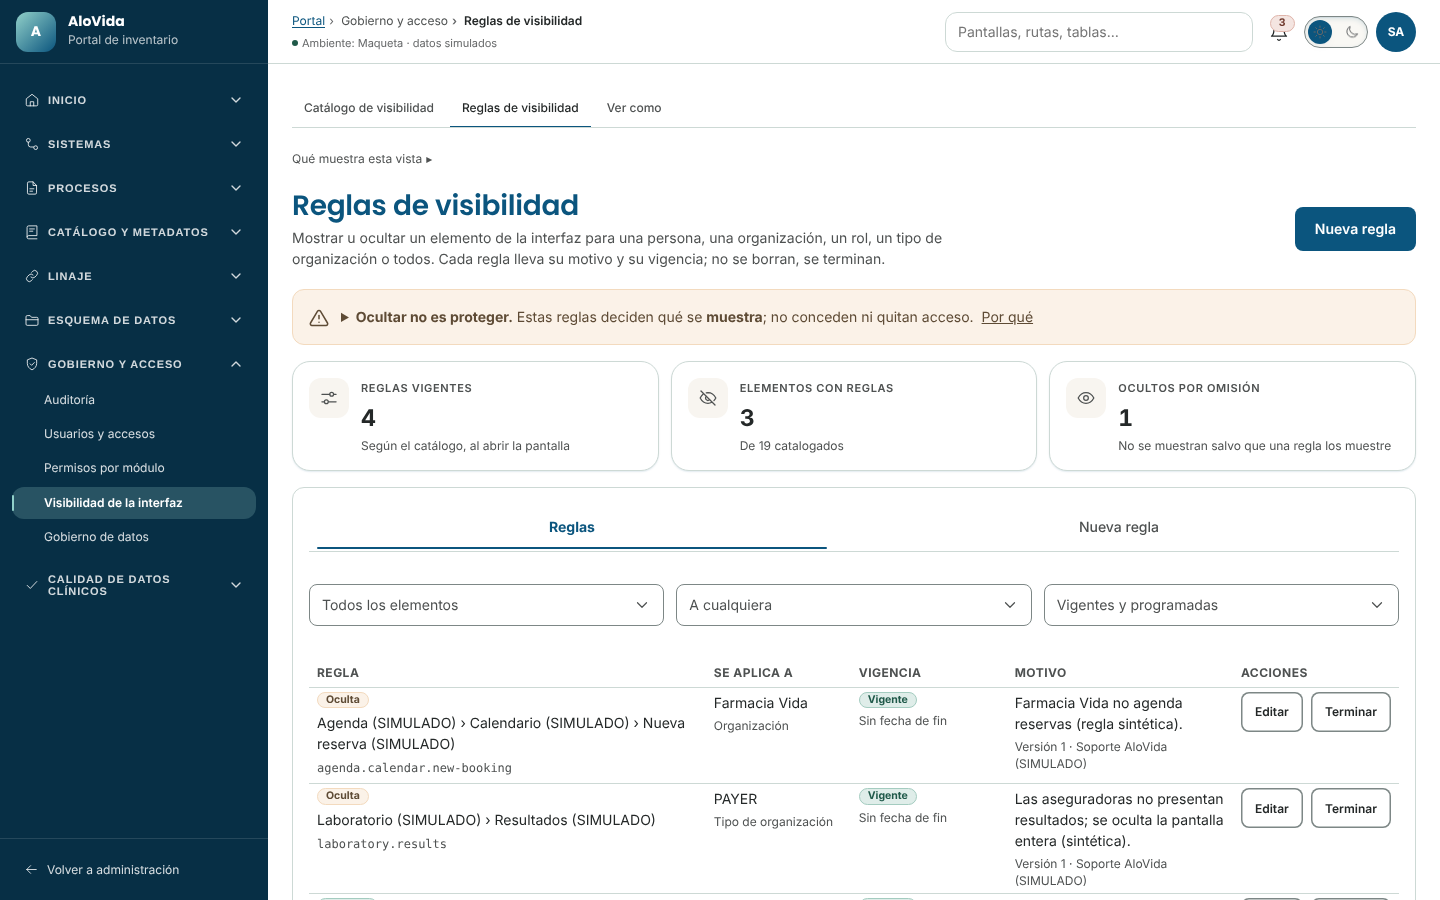
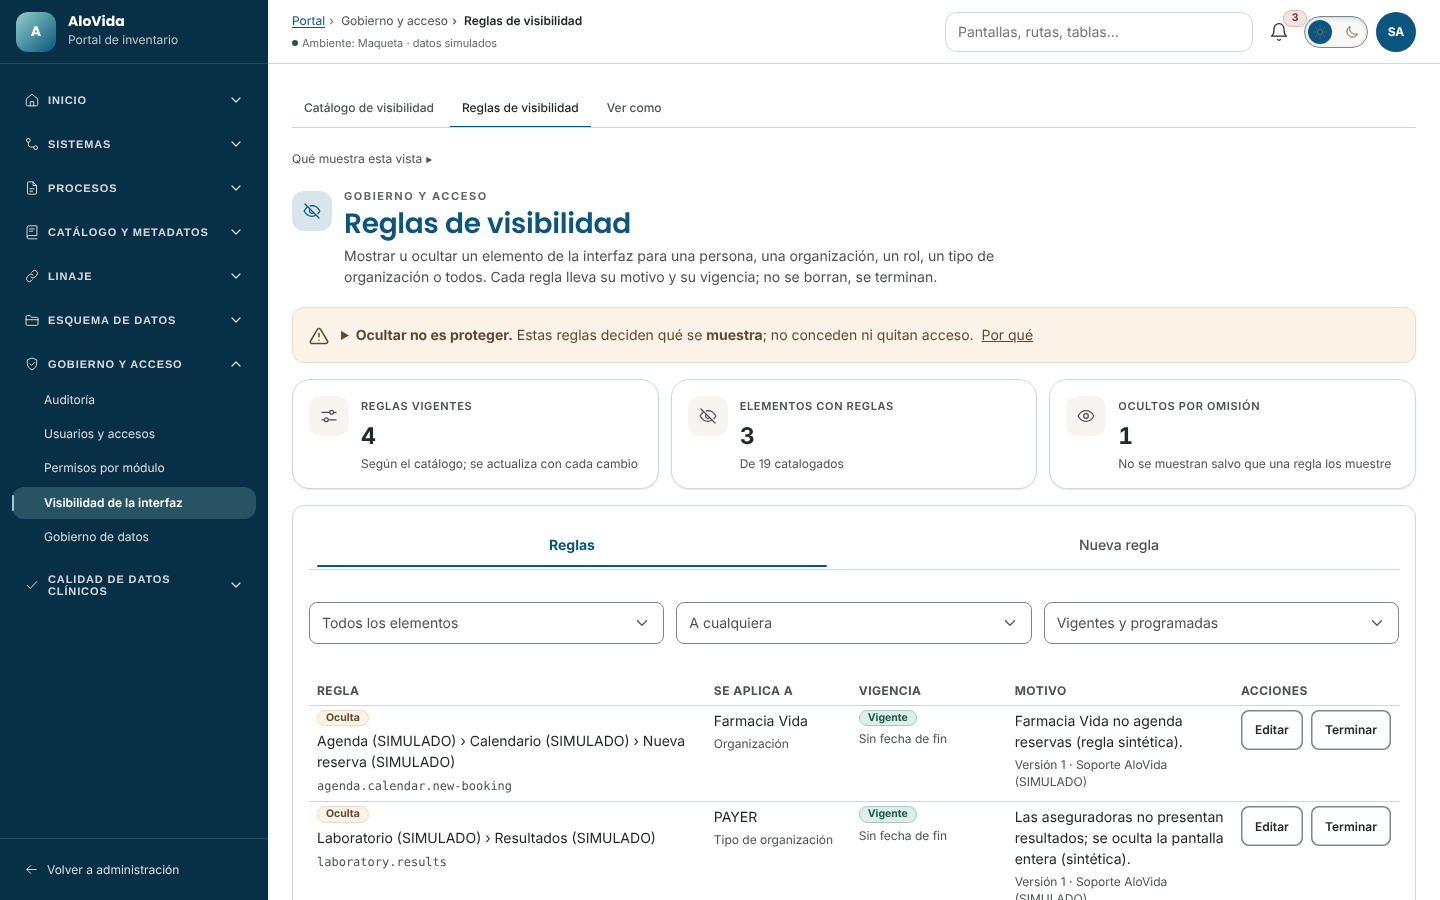
fix(portal): reglas de visibilidad — una sola «Nueva regla», filtros sin botón suelto y KPIs que se actualizan (revisión visual 1)
- Se quita el botón de cabecera: «Nueva regla» queda sólo como pestaña.
- La barra de filtros no se pliega (sin buscador quedaba un botón «Filtros» suelto a 390).
- Las cifras releen el índice del catálogo tras crear, editar o terminar una regla, sin
  vaciar lo que se ve (índice «atrasado» S7 mientras llega). Spec nueva que lo prueba.
- KPIs en dos columnas (la primera a lo ancho) hasta 1024 px.

Claude-Session: https://claude.ai/code/session_015srVoda962hL6gd5RrH9vw

diff --git a/src/app/features/admin/portal/visibility/rules/ui-rules-page.ts b/src/app/features/admin/portal/visibility/rules/ui-rules-page.ts
@@ -3,7 +3,6 @@ import { ActivatedRoute, Router } from '@angular/router';
 
 import type { UiVisibilityRule } from '../../../../../core/data-access/ui-visibility/ui-visibility.types';
 import { UiVisibilityService } from '../../../../../core/visibility/ui-visibility.service';
-import { AppButton } from '../../../../../shared/components/atoms/button/button';
 import { Card } from '../../../../../shared/components/molecules/card/card';
 import { MetricCard } from '../../../../../shared/components/molecules/metric-card/metric-card';
 import { Tab } from '../../../../../shared/components/molecules/tabs/tab/tab';
@@ -26,23 +25,17 @@ const FILTER_KEYS = ['element', 'subjectType', 'state'] as const;
  */
 @Component({
   selector: 'app-portal-ui-rules-page',
-  imports: [AppButton, Card, MetricCard, Tab, Tabs, PageHeader, VisibilityNotice, RulesPanel, RuleFormPanel],
+  imports: [Card, MetricCard, Tab, Tabs, PageHeader, VisibilityNotice, RulesPanel, RuleFormPanel],
   template: `
     <!-- Una sola cabecera sobre el lienzo; las migas viven en la barra superior del portal. -->
     <app-page-header
       title="Reglas de visibilidad"
       subtitle="Mostrar u ocultar un elemento de la interfaz para una persona, una organización, un rol, un tipo de organización o todos. Cada regla lleva su motivo y su vigencia; no se borran, se terminan."
-    >
-      @if (tabIndex() === 0) {
-        <button app-button page-actions variant="primary" data-testid="ui-rules-new" (clicked)="selectTab(1)">
-          Nueva regla
-        </button>
-      }
-    </app-page-header>
+    />
     <div class="rules-page">
       <app-visibility-notice />
       <section class="rules-page__metrics" aria-label="Resumen de las reglas" data-testid="ui-rules-metrics">
-        <app-metric-card label="Reglas vigentes" icon="sliders" [value]="metric(totals().rules)" hint="Según el catálogo, al abrir la pantalla" />
+        <app-metric-card label="Reglas vigentes" icon="sliders" [value]="metric(totals().rules)" hint="Según el catálogo; se actualiza con cada cambio" />
         <app-metric-card
           label="Elementos con reglas"
           icon="eye-off"
@@ -59,7 +52,7 @@ const FILTER_KEYS = ['element', 'subjectType', 'state'] as const;
       <app-card class="rules-page__card" variant="outlined" padding="md" data-testid="portal-ui-rules">
         <app-tabs [selectedIndex]="tabIndex()" (selectedIndexChange)="selectTab($event)">
           <app-tab label="Reglas">
-            <app-visibility-rules-panel [values]="filters()" [notice]="notice()" />
+            <app-visibility-rules-panel [values]="filters()" [notice]="notice()" (changed)="index.refresh()" />
           </app-tab>
           <app-tab label="Nueva regla">
             @if (tabIndex() === 1) {
@@ -83,21 +76,21 @@ const FILTER_KEYS = ['element', 'subjectType', 'state'] as const;
       inline-size: 100%;
       margin-inline: auto;
     }
-    /* Teléfono y tableta: las cifras en un carril de una fila; desde escritorio, en rejilla. */
+    /* Tres cifras en dos columnas (la primera a lo ancho); desde escritorio, tres. */
     .rules-page__metrics {
       display: grid;
-      grid-auto-flow: column;
-      grid-auto-columns: minmax(15rem, 1fr);
+      grid-template-columns: repeat(2, minmax(0, 1fr));
       gap: var(--sp-3);
-      overflow-x: auto;
-      padding-block-end: var(--sp-1);
-      scrollbar-width: thin;
+    }
+    .rules-page__metrics > :first-child {
+      grid-column: 1 / -1;
     }
     @media (min-width: 1024px) {
       .rules-page__metrics {
-        grid-auto-flow: row;
         grid-template-columns: repeat(3, minmax(0, 1fr));
-        overflow-x: visible;
+      }
+      .rules-page__metrics > :first-child {
+        grid-column: auto;
       }
     }
     .rules-page__metrics app-metric-card {
@@ -153,6 +146,8 @@ export class UiRulesPage {
   protected created(rule: UiVisibilityRule): void {
     // La regla nueva puede tocar a quien la creó: su interfaz se pone al día sin recargar la página.
     this.visibility.refresh();
+    // Las cifras de la cabecera salen del índice del catálogo: se relee para que cuenten la regla nueva.
+    this.index.refresh();
     this.notice.set(
       `Se creó la regla: ${effectLabel(rule.effect).label.toLowerCase()} «${this.index.path(rule.elementKey)}» para ${rule.subjectLabel ?? 'todos'}.`,
     );

diff --git a/src/app/features/admin/portal/visibility/element-index.ts b/src/app/features/admin/portal/visibility/element-index.ts
@@ -4,7 +4,7 @@ import type { Subscription } from 'rxjs';
 import { UiVisibilityAdminClient } from '../../../../core/data-access/ui-visibility/ui-visibility-admin.client';
 import type { UiElement } from '../../../../core/data-access/ui-visibility/ui-visibility.types';
 import { errorToViewState } from '../../../../core/http/error-to-view-state';
-import { loading, ready } from '../../../../core/view-state/view-state';
+import { loading, ready, stale } from '../../../../core/view-state/view-state';
 import type { ViewState } from '../../../../core/view-state/view-state.types';
 import type { SelectOption } from '../../../../shared/components/atoms/select/select.types';
 import { pathText } from './visibility-labels';
@@ -61,9 +61,18 @@ export class UiElementIndex {
       .sort((a, b) => a.label.localeCompare(b.label));
   }
 
-  load(): void {
+  /**
+   * Vuelve a leer el catálogo sin vaciar lo que se ve: mientras llega, el índice queda «atrasado»
+   * (S7) con los datos anteriores, así las rutas legibles y las cifras no parpadean.
+   */
+  refresh(): void {
+    const s = this.state();
+    this.load(s.status === 'ready' || s.status === 'stale' ? stale(s.data, new Date()) : loading());
+  }
+
+  load(initial: ViewState<readonly UiElement[]> = loading()): void {
     this.pending?.unsubscribe();
-    this.state.set(loading());
+    this.state.set(initial);
     const all: UiElement[] = [];
     const next = (cursor: string | undefined, pages: number): void => {
       this.pending = this.client.listElements({ limit: PAGE, ...(cursor ? { cursor } : {}) }).subscribe({

diff --git a/src/app/features/admin/portal/visibility/rules/ui-rules-page.spec.ts b/src/app/features/admin/portal/visibility/rules/ui-rules-page.spec.ts
@@ -127,7 +127,12 @@ describe('UiRulesPage', () => {
       saving(): boolean;
     };
 
-  afterEach(() => http.verify());
+  afterEach(() => {
+    // Las cifras de la cabecera releen el índice del catálogo tras cada cambio; esa relectura no es
+    // lo que prueba cada caso, así que se responde aquí (los casos que la prueban la piden antes).
+    http.match((r) => r.url === ELEMENTS).forEach((r) => r.flush({ items: ELEMENT_LIST, nextCursor: null, total: 3 }));
+    http.verify();
+  });
 
   describe('lista', () => {
     it('muestra cada regla con su efecto, la ruta del elemento, el sujeto, la vigencia y el motivo', async () => {
@@ -191,6 +196,17 @@ describe('UiRulesPage', () => {
       req.flush(rule('r1', { validTo: '2026-10-31T12:00:00.000Z', version: 2 }));
       harness.detectChanges();
       expect(byTestId('ui-rules-done')!.textContent).toContain('Quedó en el historial');
+      flush([ENDED]);
+    });
+
+    it('al terminarla, las cifras de la cabecera vuelven a leer el catálogo', async () => {
+      await open();
+      flush();
+      all('ui-rule-end')[0]!.click();
+      await harness.fixture.whenStable();
+      http.expectOne(`${RULES}/r1/end`).flush(rule('r1', { validTo: '2026-10-31T12:00:00.000Z', version: 2 }));
+      harness.detectChanges();
+      expect(http.match((r) => r.url === ELEMENTS).length).toBeGreaterThan(0);
       flush([ENDED]);
     });
 

diff --git a/src/app/features/admin/portal/visibility/rules/rules-panel.html b/src/app/features/admin/portal/visibility/rules/rules-panel.html
@@ -10,7 +10,7 @@
   }
 
   <!-- Filtros en una fila sobre la tabla; se apilan en el teléfono. Viven en la URL. -->
-  <app-filter-bar [filters]="filterDefs()" [showSearch]="false" wrap collapsible />
+  <app-filter-bar [filters]="filterDefs()" [showSearch]="false" wrap />
 
   <app-data-table
     data-testid="ui-rules-table"
